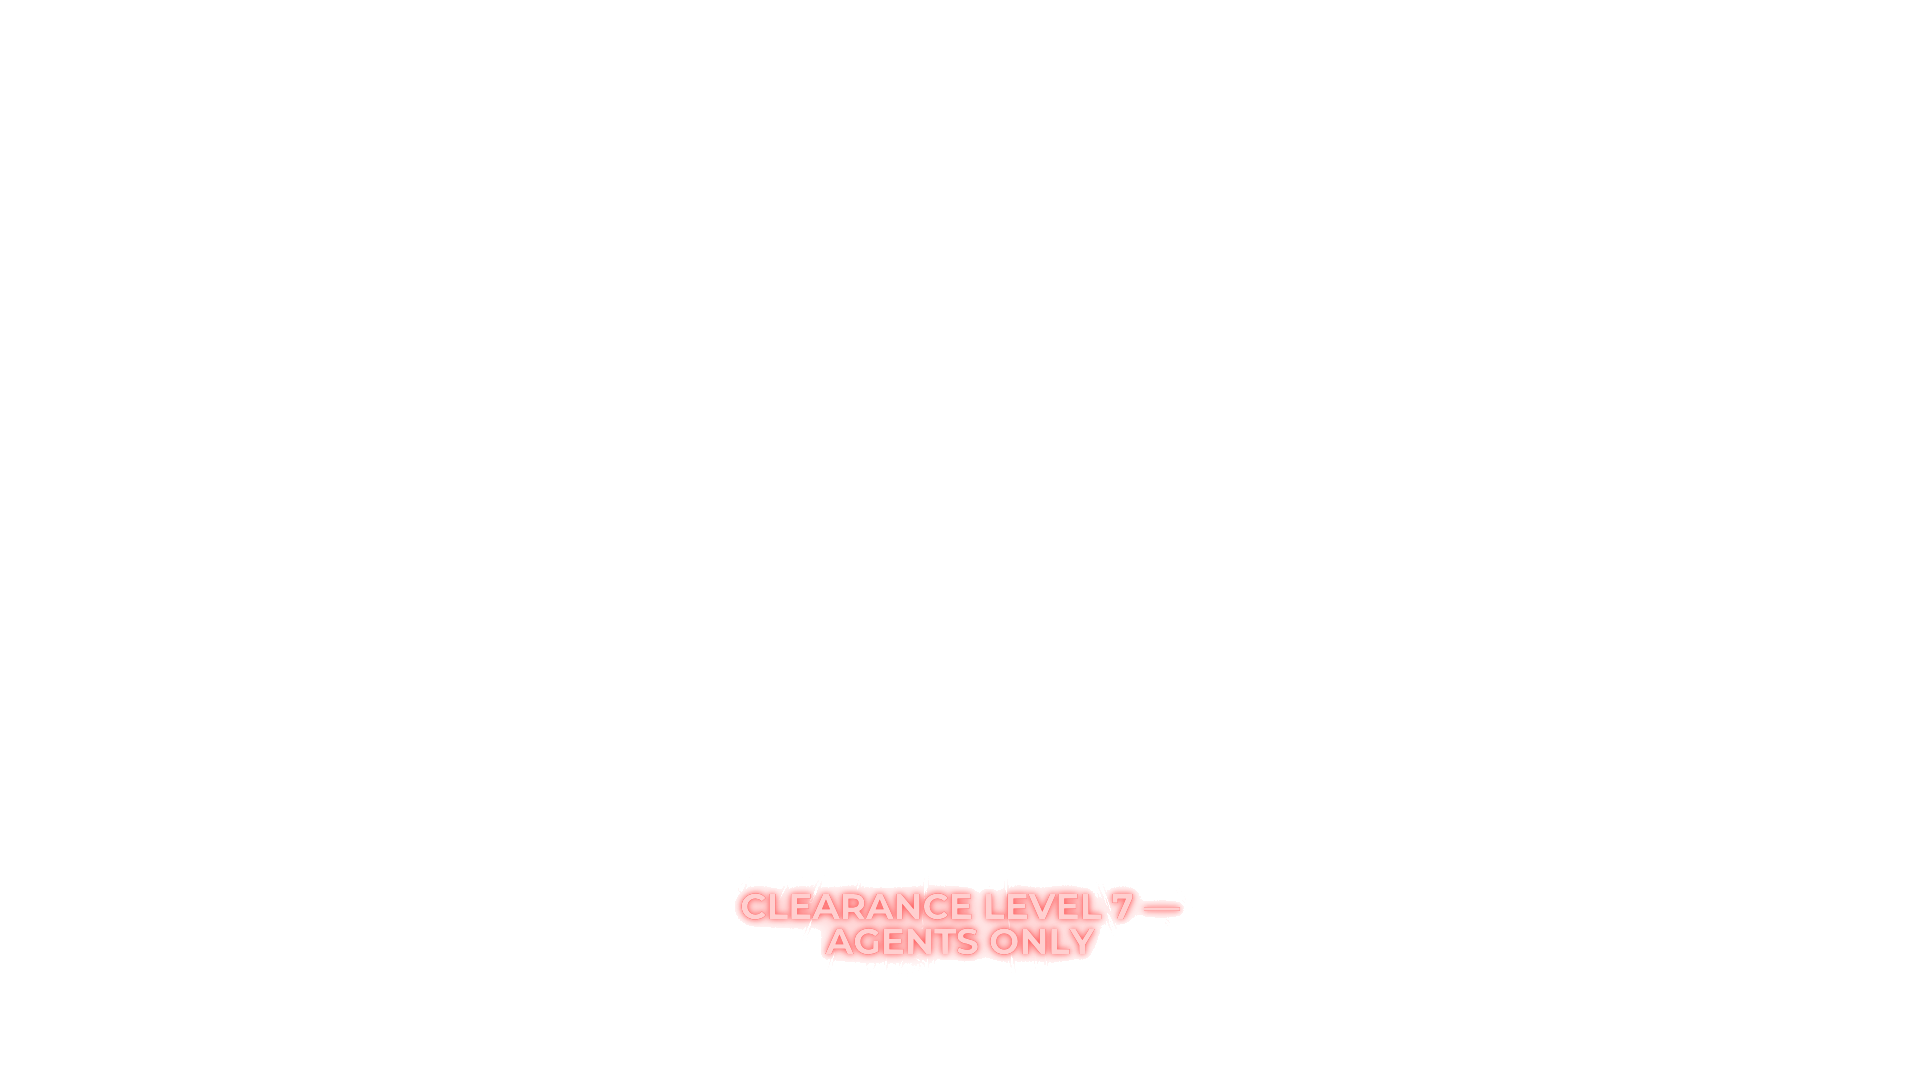
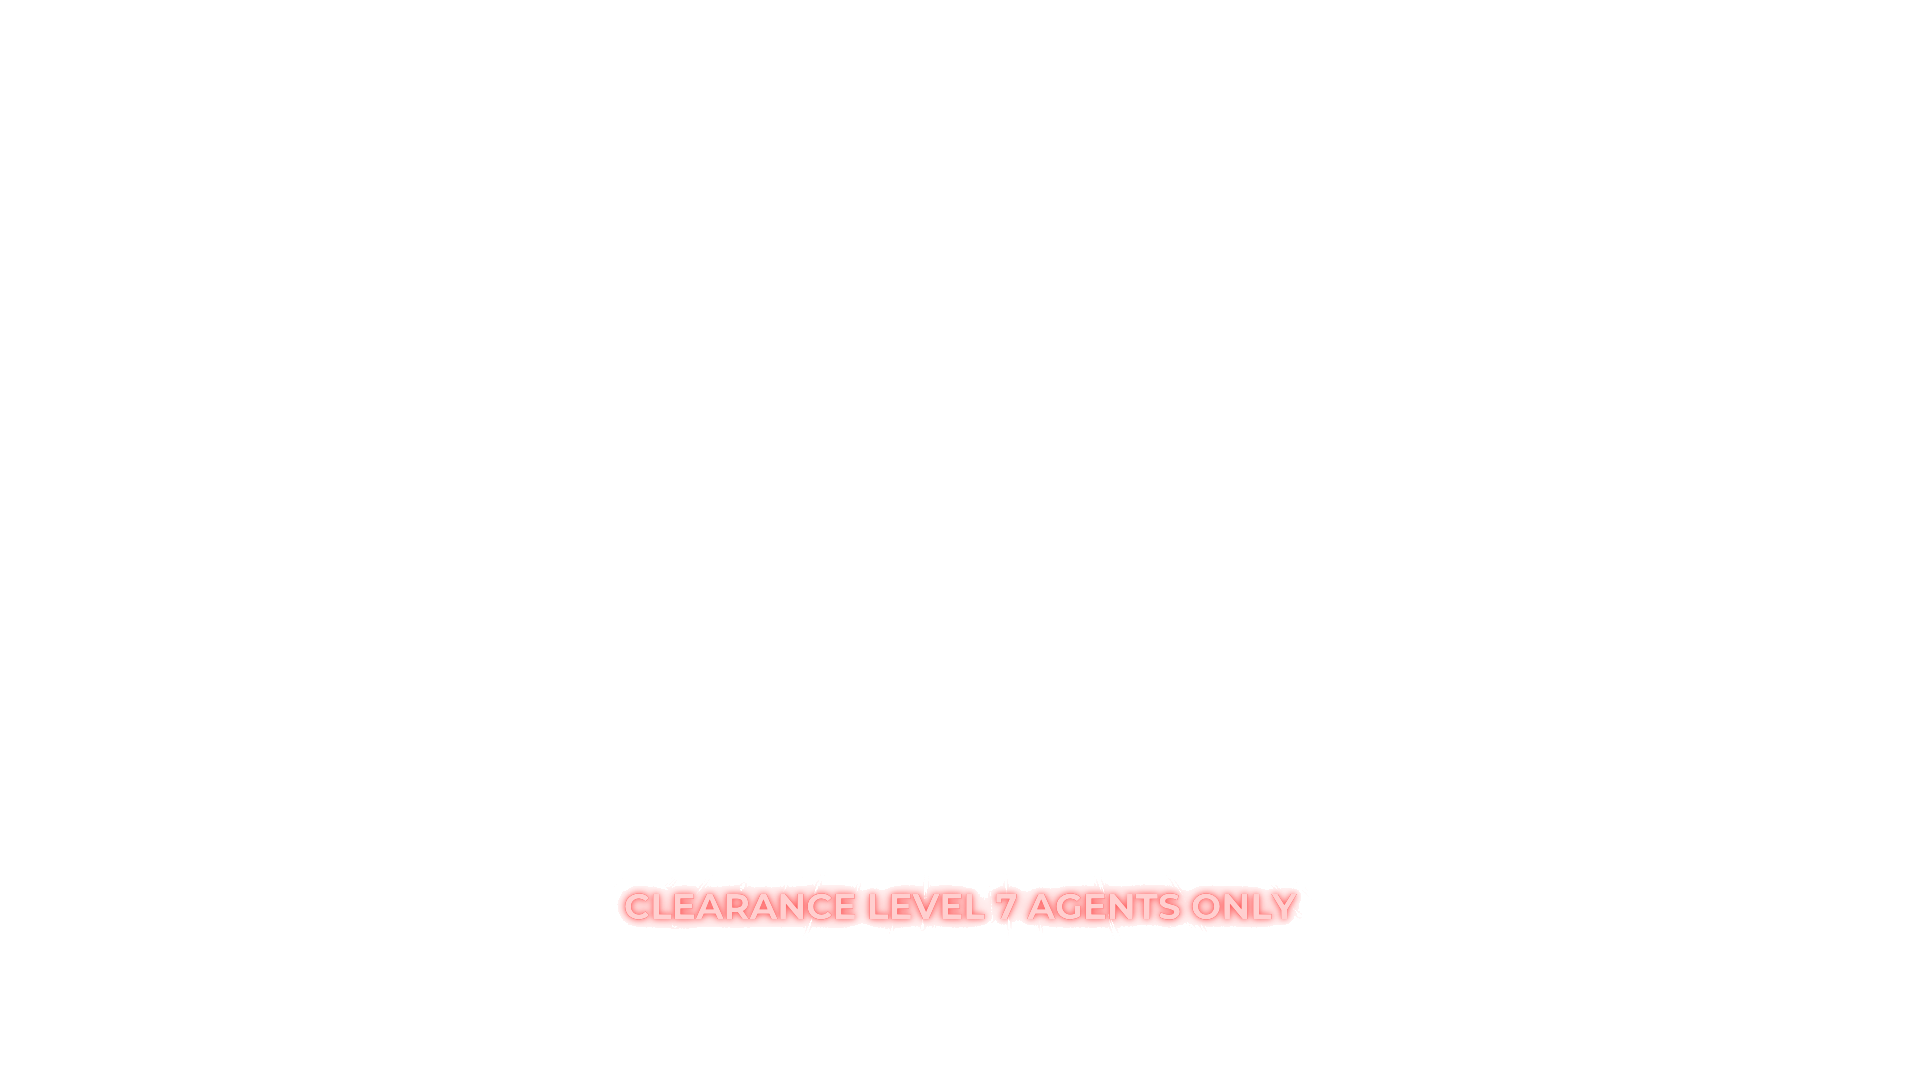
This fixes #2 issue: Rearranging the text image.

Changed region(s): [[0.3125, 0.825, 0.6875, 0.8861]]

diff --git a/src/components/intro-stage.tsx b/src/components/intro-stage.tsx
@@ -228,7 +228,7 @@ export function IntroStage() {
           >
             <Image
               src={subtitle}
-              alt="Clearance Level 7 — Agents Only"
+              alt="Clearance Level 7 Agents Only"
               fill
               quality={95}
               sizes={PLATE_SIZES}
